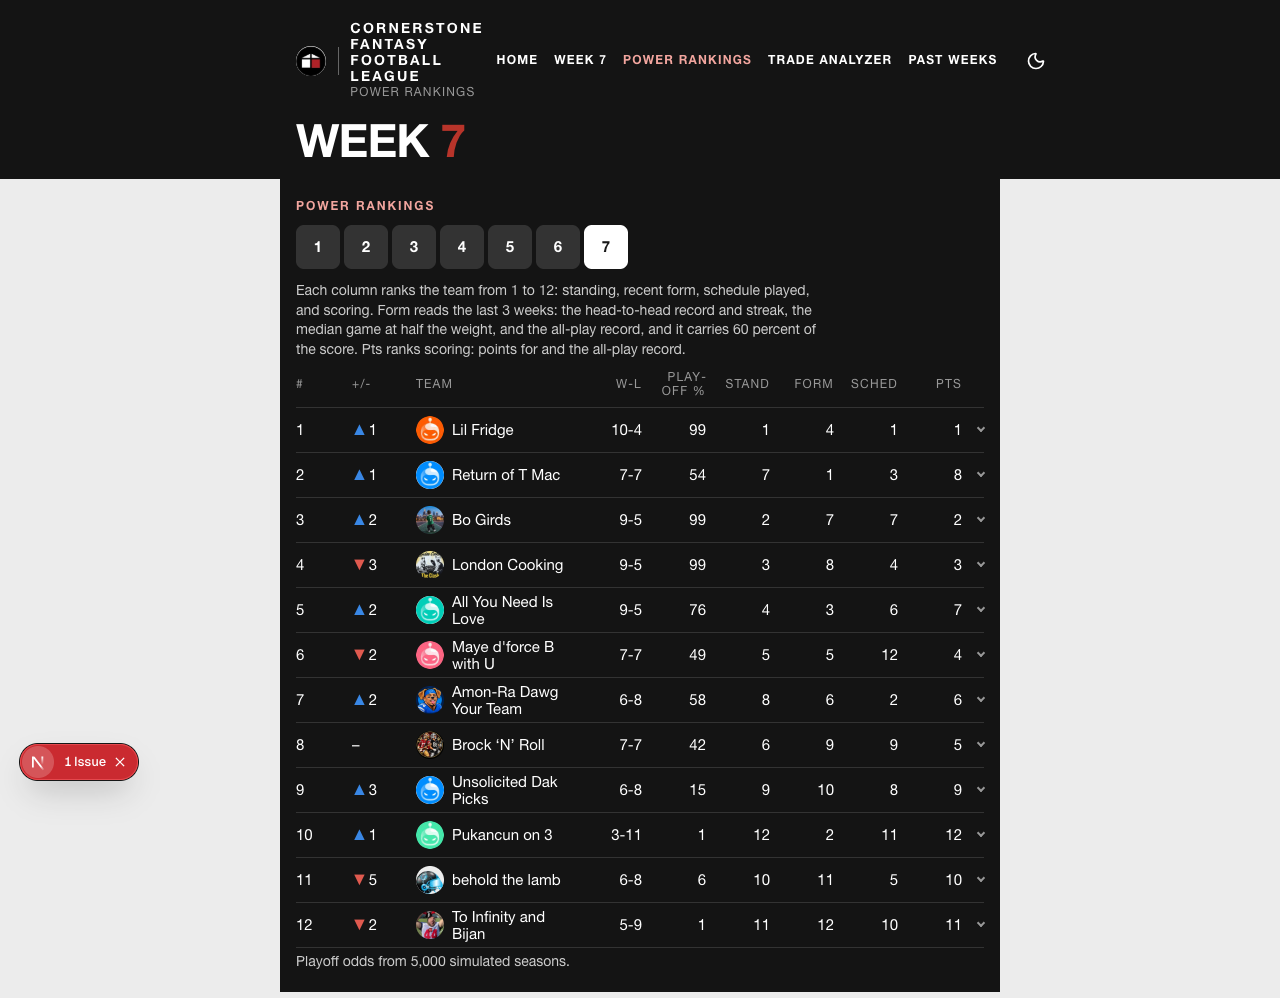
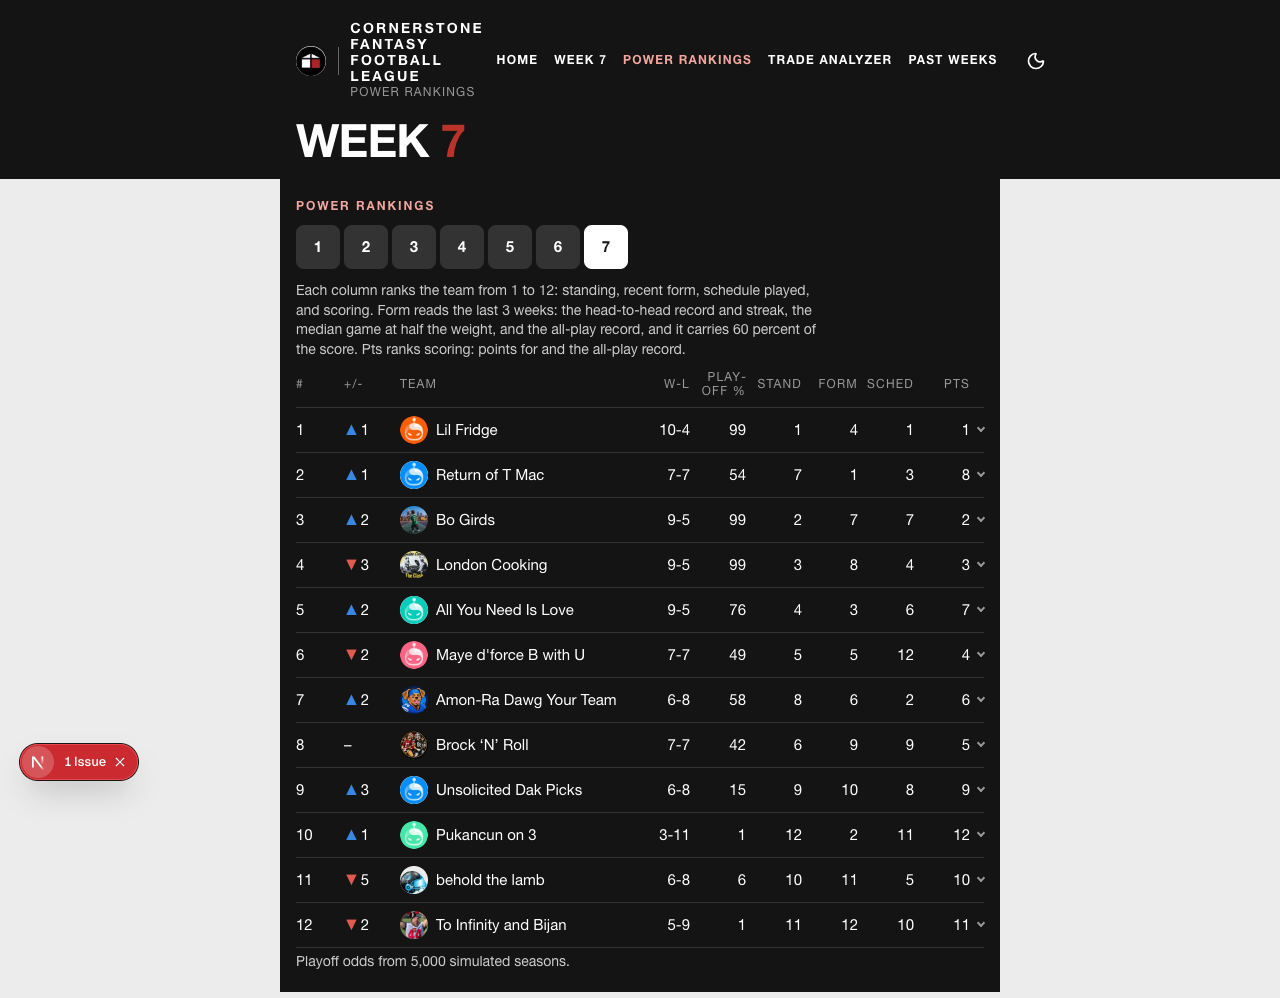
Keep each team name on one line in the rankings table
The wide tokens narrowed the team track, so five team names wrapped to
two lines on a tablet and a desktop. The team track now holds the
avatar, its gap, and the longest full name on one line at each tier.

The gap stays at 8px from the tablet tier. On a tablet the four
component columns take 44px, so "SCHED" fits on one line, and the team
gets 210px. On a desktop the rank takes 40px and the other columns take
48px, and the team gets 234px. The stylesheet comment records the
arithmetic.

diff --git a/src/components/rankings/power-rankings.tsx b/src/components/rankings/power-rankings.tsx
@@ -31,18 +31,20 @@ const COMPONENTS: { key: keyof Components; name: string }[] = [
 const PHONE_COLS =
   "grid-cols-[var(--spacing-standings-rank)_var(--spacing-rankings-col)_1fr_var(--spacing-rankings-col)_var(--spacing-rankings-col)_var(--spacing-chevron)]";
 
-/* The open row on a tablet and a desktop: the phone tracks with the wide tokens and the gap of the row at each tier. */
+/* The open row on a desktop: the phone tracks with the wide rank and the desktop column, so the blurb starts under the team.
+   On a tablet the row keeps the phone tracks and the 8px gap, so the open row needs no change there. */
 const OPEN_WIDE_COLS =
-  "tablet:grid-cols-[var(--spacing-standings-rank-wide)_var(--spacing-rankings-col-tablet)_1fr_var(--spacing-rankings-col-tablet)_var(--spacing-rankings-col-tablet)_var(--spacing-chevron)] desktop:grid-cols-[var(--spacing-standings-rank-wide)_var(--spacing-rankings-col-desktop)_1fr_var(--spacing-rankings-col-desktop)_var(--spacing-rankings-col-desktop)_var(--spacing-chevron)] tablet:gap-x-sp-3 desktop:gap-x-sp-4";
+  "desktop:grid-cols-[var(--spacing-standings-rank-wide)_var(--spacing-rankings-col-desktop)_1fr_var(--spacing-rankings-col-desktop)_var(--spacing-rankings-col-desktop)_var(--spacing-chevron)]";
 
 /* The same grid style as the standings. On a phone the four component columns do not fit beside the team,
    so the row keeps its phone columns and the component ranks move into the open row. From the page width up, they join the row.
    Ten columns need a tighter gap than the four-column standings, so the longest team name fits on two lines at 800.
    The page grid uses the same plain 1fr team track as the phone grid. At 480 the ten columns leave the team 102px,
    and the avatar, its gap, and the longest word "Unsolicited" need 101px, so no row grows past the others.
-   From the tablet tier the wide column tokens and a wider gap spread the numbers across the row, as the standings do.
-   The rankings tokens in the stylesheet give the width left for the team at each tier. */
-const GRID = `grid ${PHONE_COLS} page:grid-cols-[var(--spacing-standings-rank)_var(--spacing-rankings-col)_1fr_repeat(6,var(--spacing-rankings-col))_var(--spacing-chevron)] tablet:grid-cols-[var(--spacing-standings-rank-wide)_var(--spacing-rankings-col-tablet)_1fr_repeat(6,var(--spacing-rankings-col-tablet))_var(--spacing-chevron)] desktop:grid-cols-[var(--spacing-standings-rank-wide)_var(--spacing-rankings-col-desktop)_1fr_repeat(6,var(--spacing-rankings-col-desktop))_var(--spacing-chevron)] items-center gap-x-sp-2 page:gap-x-sp-1 tablet:gap-x-sp-3 desktop:gap-x-sp-4 border-b border-rule-dark text-row leading-tight tabular-nums`;
+   From the tablet tier the gap widens to 8px and the component columns widen to hold their headers.
+   From the desktop tier the wide rank and the desktop column spread the numbers.
+   The team name stays on one line there. The rankings tokens in the stylesheet give the width left for the team at each tier. */
+const GRID = `grid ${PHONE_COLS} page:grid-cols-[var(--spacing-standings-rank)_var(--spacing-rankings-col)_1fr_repeat(6,var(--spacing-rankings-col))_var(--spacing-chevron)] tablet:grid-cols-[var(--spacing-standings-rank)_var(--spacing-rankings-col)_1fr_repeat(2,var(--spacing-rankings-col))_repeat(4,var(--spacing-rankings-col-tablet))_var(--spacing-chevron)] desktop:grid-cols-[var(--spacing-standings-rank-wide)_var(--spacing-rankings-col-desktop)_1fr_repeat(6,var(--spacing-rankings-col-desktop))_var(--spacing-chevron)] items-center gap-x-sp-2 page:gap-x-sp-1 tablet:gap-x-sp-2 border-b border-rule-dark text-row leading-tight tabular-nums`;
 
 /* The arrow carries the direction in its shape, and the screen reader text names it, so the color is never the only sign.
    The count stays in the text color. The arrow sits on two surfaces: the black card #141414 of the table and the white home page #ffffff.
@@ -164,7 +166,7 @@ function Row({ row, avatars, index }: { row: RankingsRow; avatars: AvatarMap; in
         transition={off ? INSTANT : { duration: DURATION.collapse, ease: EASE_OUT }}
         className="overflow-hidden"
       >
-        {/* From the tablet tier the open row takes the wide rank and movement tracks and the gap of the row, so the blurb still starts under the team. */}
+        {/* From the desktop tier the open row takes the wide rank and movement tracks of the row, so the blurb still starts under the team. */}
         <div className={cn("grid gap-x-sp-2 gap-y-sp-2 pb-sp-2", PHONE_COLS, OPEN_WIDE_COLS)}>
           <ComponentCells cells={COMPONENTS.map(({ key, name }) => ({ name, value: row.components[key] }))} />
           {/* The bye line shows at every width, because the row line has no room for the bye odds and the seed. */}

diff --git a/src/app/globals.css b/src/app/globals.css
@@ -119,14 +119,15 @@
     --spacing-standings-points-wide: 96px;
     /* The power rankings columns for movement, the record, the playoff odds, and each component rank. 40px fits a five-letter column name in caps. */
     --spacing-rankings-col: 40px;
-    /* The power rankings columns from the tablet tier up. The rank takes the wide standings rank, and the chevron keeps its 6px.
-       The team track holds the avatar 28px, its gap 8px, and the name. The longest word "Unsolicited" is 70px at the 14px tablet row
-       and 75px at the 15px desktop row, so the track needs 106px and 111px for it. A longer name must also fit on two lines:
-       "Amon-Ra Dawg" is 99px at 14px and 106px at 15px, so the track needs 136px and 143px. The chapter content is the page
-       column minus two 16px gutters, and the row has nine gaps.
-       Tablet: 640 - 32 = 608px. 40 + 6 + 7 × 44 + 9 × 12 = 462px, so the team gets 146px.
-       Desktop: 720 - 32 = 688px. 40 + 6 + 7 × 48 + 9 × 16 = 526px, so the team gets 162px.
-       The tablet values sit between the phone and the desktop values, so the step feels even. */
+    /* The power rankings columns from the tablet tier up. A team name stays on one line there, so the team track must hold
+       the avatar 28px, its gap 8px, and the longest full name. "Amon-Ra Dawg Your Team" is 168.5px at the 14px tablet row
+       and 180.6px at the 15px desktop row, so the track needs 205px and 217px. The numbers spread only with the width left.
+       The chapter content is the page column minus two 16px gutters, and the row has nine gaps of 8px.
+       A component column must also hold its header on one line: "SCHED" in caps is 43px at the 11px tablet label
+       and 46.9px at the 12px desktop label. On a tablet only the four component columns take 44px; the movement,
+       the record, and the playoff odds keep 40px.
+       Tablet: 640 - 32 = 608px. The phone rank 24 + 6 + 3 × 40 + 4 × 44 + 9 × 8 = 398px, so the team gets 210px.
+       Desktop: 720 - 32 = 688px. The wide rank 40 + 6 + 7 × 48 + 9 × 8 = 454px, so the team gets 234px. */
     --spacing-rankings-col-tablet: 44px;
     --spacing-rankings-col-desktop: 48px;
 
